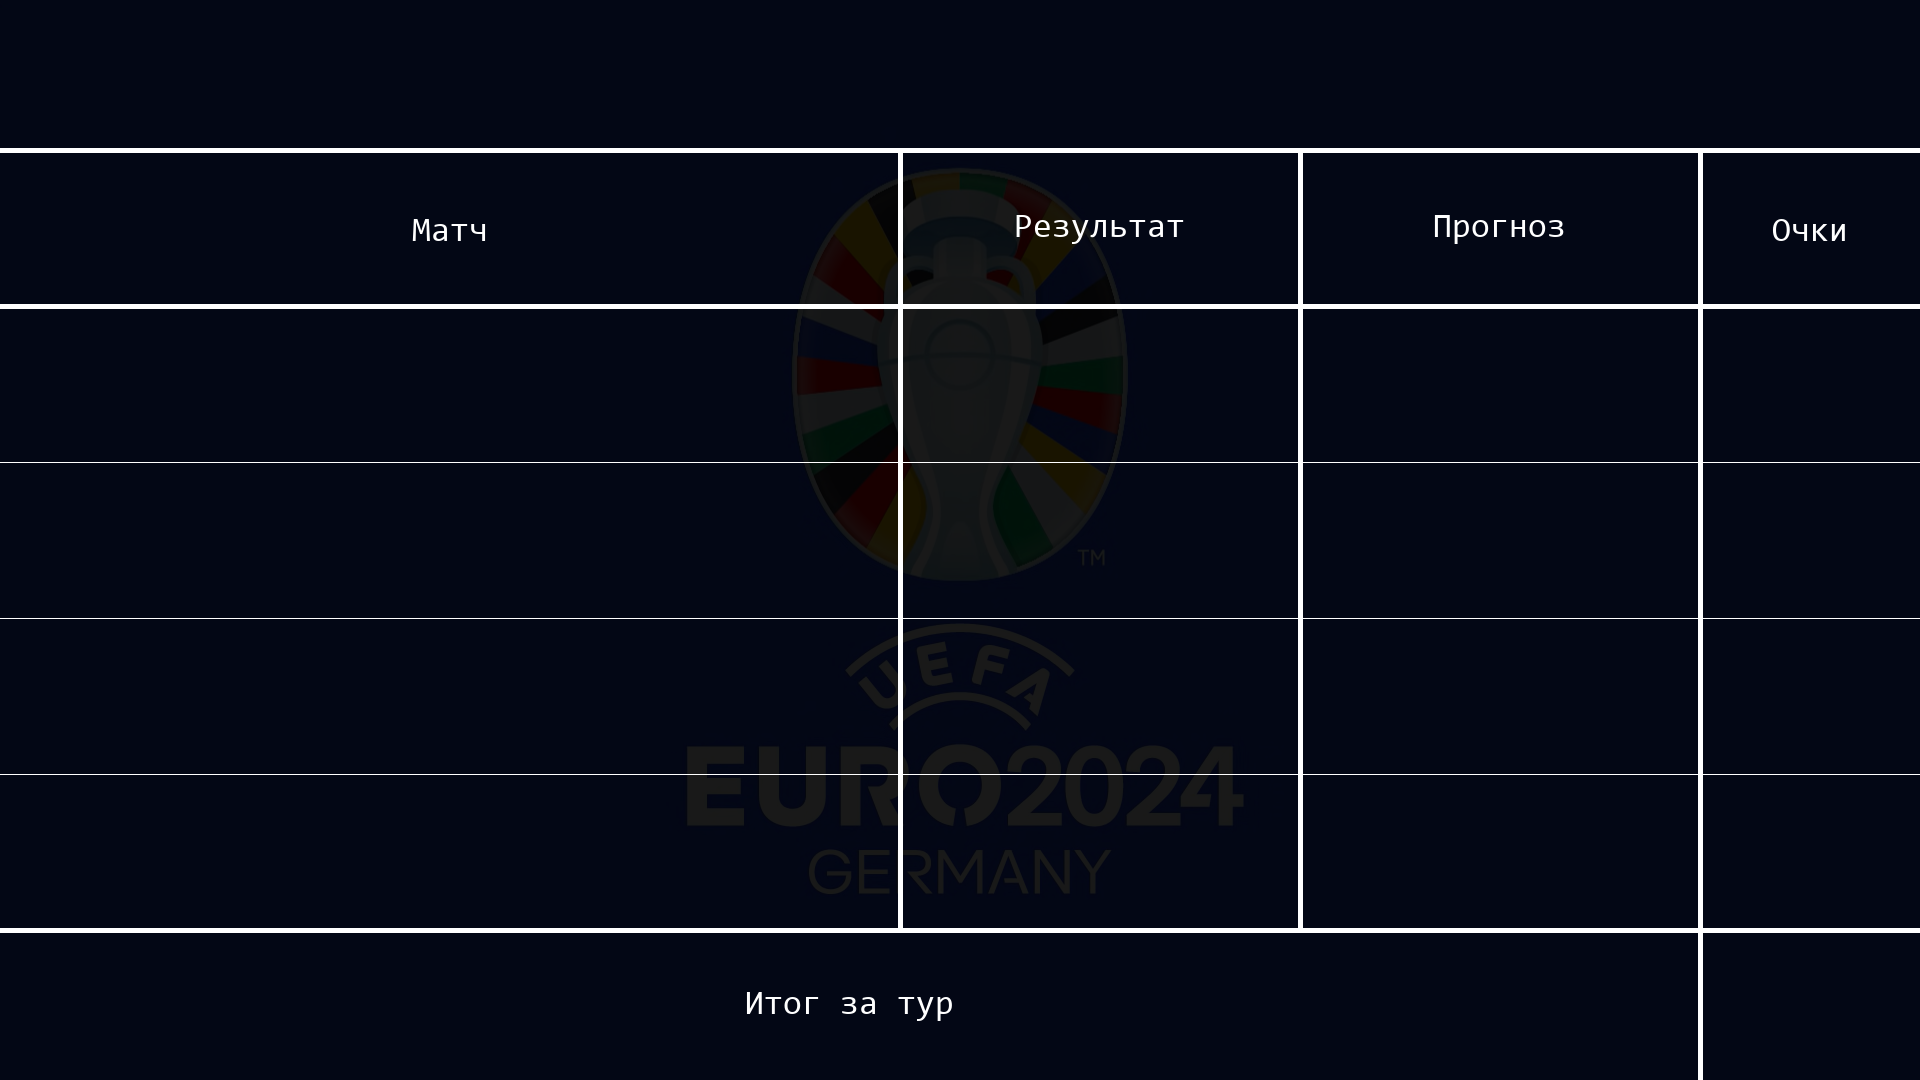
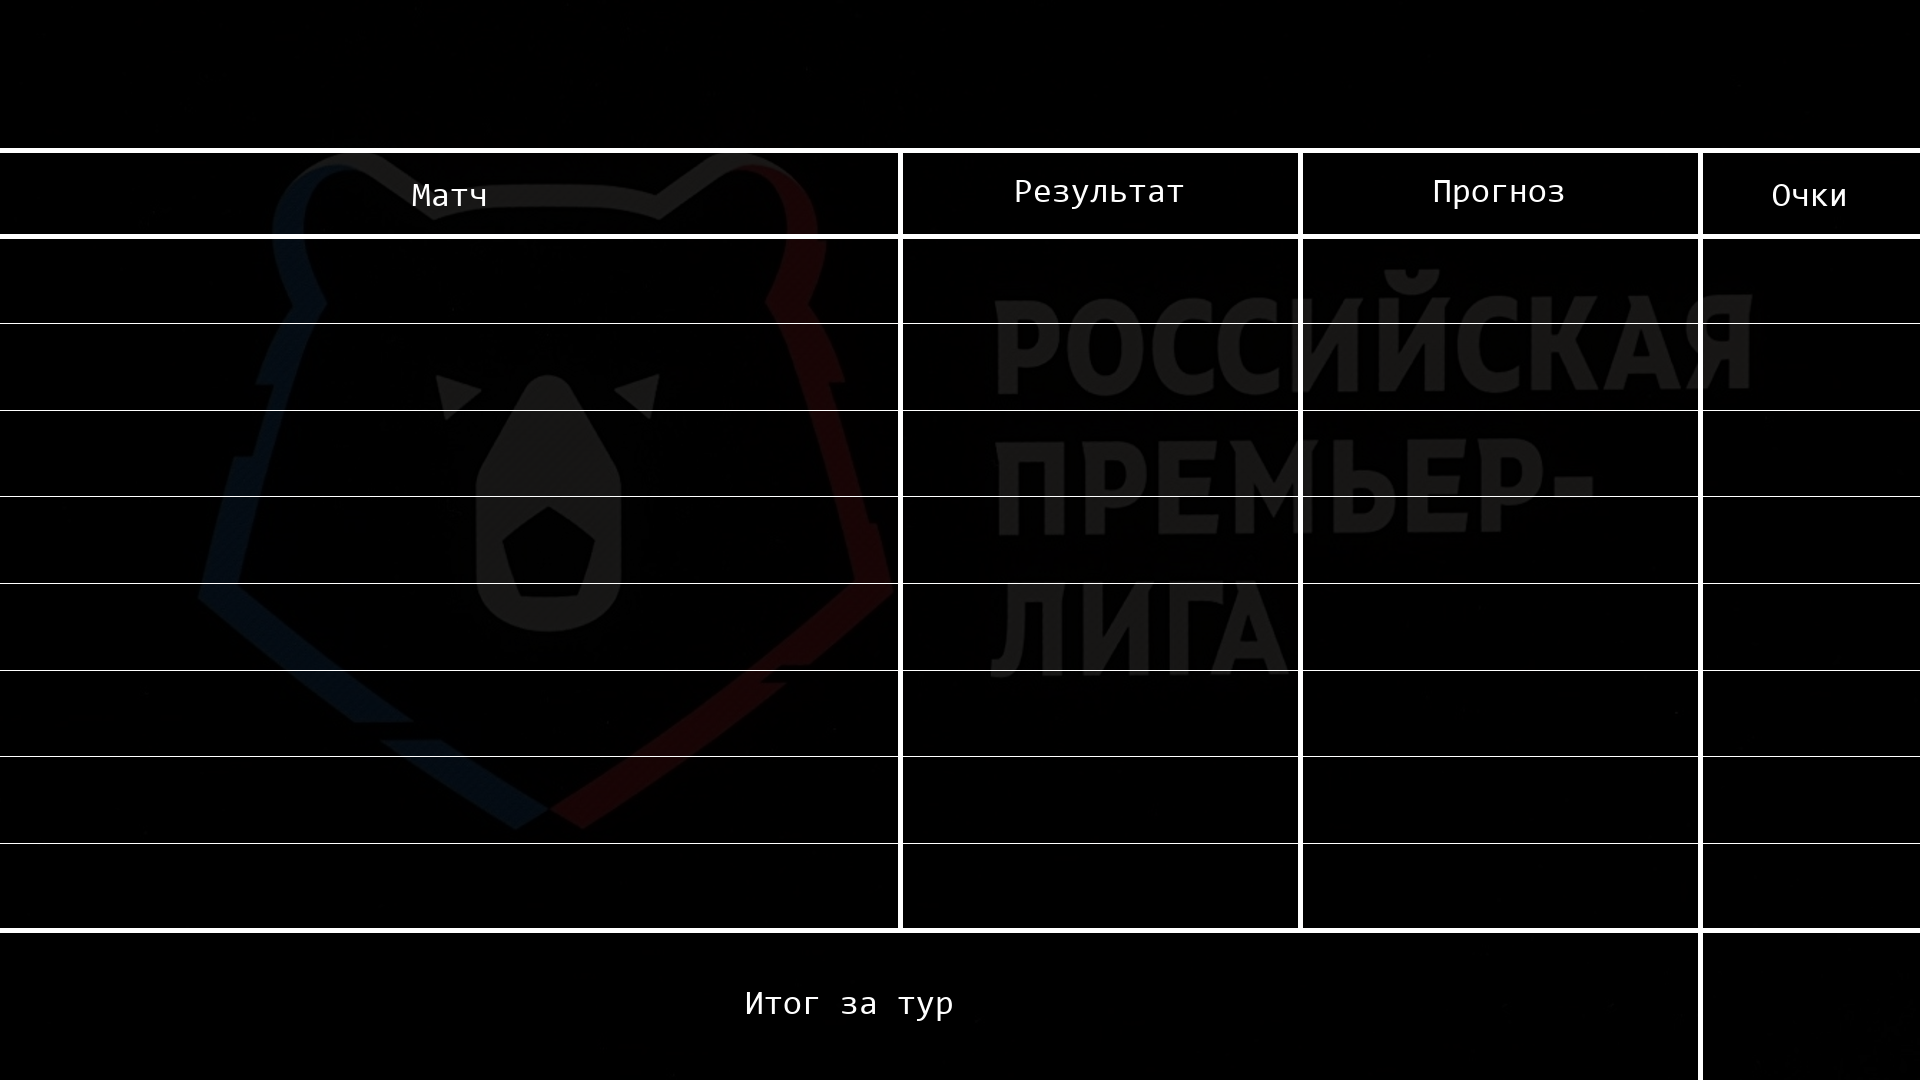
init rpl 24

Changed region(s): [[0.0, 0.1528, 1.0, 0.55], [0.3438, 0.5806, 0.6562, 0.825]]

diff --git a/config_data/relations.py b/config_data/relations.py
@@ -1,115 +1,8 @@
-# TOUR_DCT = {
-#     1: "tour1",
-#     2: "tour2",
-#     3: "tour3",
-#     4: "tour4",
-#     5: "tour5",
-#     6: "tour6",
-#     7: "tour7",
-#     8: "tour8",
-#     9: "tour9",
-#     10: "tour10",
-#     11: "tour11",
-#     12: "tour12"
-# }
+from config_data.config import NUMBER_OF_TOUR
 
-# DATES_DCT = {
-#     'tour1': 1,
-#     'tour2': 2,
-#     'tour3': 3,
-#     'tour4': 4,
-#     'tour5': 5,
-#     'tour6': 6,
-#     'tour7': 7,
-#     'tour8': 8,
-#     'tour9': 9,
-#     'tour10': 10,
-#     'tour11': 11,
-#     'tour12': 12
-# }
+TOUR_DCT = {i: f"tour{i}" for i in range(1, NUMBER_OF_TOUR + 1)}
 
-# HUMAN_DCT = {
-#     'тур 1 день 1': 1,
-#     'тур 1 день 2': 2,
-#     'тур 2 день 1': 3,
-#     'тур 2 день 2': 4,
-#     'тур 3 день 1': 5,
-#     'тур 3 день 2': 6,
-#     'тур 4 день 1': 7,
-#     'тур 4 день 2': 8,
-#     'тур 5 день 1': 9,
-#     'тур 5 день 2': 10,
-#     'тур 6 день 1': 11,
-#     'тур 6 день 2': 12,
-# }
+DATES_DCT = {f"tour{i}": i for i in range(1, NUMBER_OF_TOUR + 1)}
 
-# HUMAN_TOUR = {
-#     1: 'тур 1 день 1',
-#     2: 'тур 1 день 2',
-#     3: 'тур 2 день 1',
-#     4: 'тур 2 день 2',
-#     5: 'тур 3 день 1',
-#     6: 'тур 3 день 2',
-#     7: 'тур 4 день 1',
-#     8: 'тур 4 день 2',
-#     9: 'тур 5 день 1',
-#     10: 'тур 5 день 2',
-#     11: 'тур 6 день 1',
-#     12: 'тур 6 день 2'
-# }
+HUMAN_DCT = {f"{i} тур": i for i in range(1, NUMBER_OF_TOUR + 1)}
 
-# DATES_TOUR = {
-#     1: '2023-09-19 ',
-#     2: '2023-09-20 ',
-#     3: '2023-10-03 ',
-#     4: '2023-10-04 ',
-#     5: '2023-10-24 ',
-#     6: '2023-10-25 ',
-#     7: '2023-11-07 ',
-#     8: '2023-11-08 ',
-#     9: '2023-11-28 ',
-#     10: '2023-11-29 ',
-#     11: '2023-12-12 ',
-#     12: '2023-12-13 ',
-# }
-
-TOUR_DCT = {
-    1: "tour1",
-    2: "tour2",
-    3: "tour3",
-    4: "tour4",
-    5: "tour5",
-    6: "tour6",
-    7: "tour7",
-    8: "tour8",
-    9: "tour9",
-    10: "tour10"
-
-}
-
-DATES_DCT = {
-    "tour1": 1,
-    "tour2": 2,
-    "tour3": 3,
-    "tour4": 4,
-    "tour5": 5,
-    "tour6": 6,
-    "tour7": 7,
-    "tour8": 8,
-    "tour9": 9,
-    "tour10": 10
-
-}
-
-HUMAN_DCT = {
-    '14-26 июня': 0,
-    '29 июня': 1,
-    '30 июня': 2,
-    '1 июля': 3,
-    '2 июля': 4,
-    '5 июля': 5,
-    '6 июля': 6,
-    '9 июля': 7,
-    '10 июля': 8,
-    '14 июля': 9
-}

diff --git a/database/common.py b/database/common.py
@@ -13,13 +13,14 @@ CREATE TABLE IF NOT EXISTS forecast(tour INTEGER, date DATETIME, match TEXT, id_
 CREATE_TABLES_USERS = '''
 CREATE TABLE IF NOT EXISTS users(nickname TEXT, id_player BIGINT, status TEXT, sum INTEGER DEFAULT 0, tour1 INTEGER DEFAULT 0, tour2 INTEGER DEFAULT 0,
          tour3 INTEGER DEFAULT 0, tour4 INTEGER DEFAULT 0, tour5 INTEGER DEFAULT 0,  tour6 INTEGER DEFAULT 0, tour7 INTEGER DEFAULT 0, tour8 INTEGER DEFAULT 0,
-         tour9 INTEGER DEFAULT 0, tour10 INTEGER DEFAULT 0, tour11 INTEGER DEFAULT 0, tour12 INTEGER DEFAULT 0, tour13 INTEGER DEFAULT 0, champ TEXT, goleador TEXT);
+         tour9 INTEGER DEFAULT 0, tour10 INTEGER DEFAULT 0, tour11 INTEGER DEFAULT 0, tour12 INTEGER DEFAULT 0, tour13 INTEGER DEFAULT 0, tour14 INTEGER DEFAULT 0,
+           tour15 INTEGER DEFAULT 0, tour16 INTEGER DEFAULT 0, tour17 INTEGER DEFAULT 0, tour18 INTEGER DEFAULT 0);
 '''
 class MyDataBase:
     def __init__(self):
         try: 
             # self.db = sqlite3.connect('/root/rfpl23/cl_db.db', check_same_thread=False)
-            self.db = sqlite3.connect('euro_cup.db', check_same_thread=False)
+            self.db = sqlite3.connect('rfpl24.db', check_same_thread=False)
             self.cursor = self.db.cursor() 
             self.cursor.execute(CREATE_TABLES_FORECAST)
             self.cursor.execute(CREATE_TABLES_MATCHES)
@@ -68,6 +69,10 @@ class MyDataBase:
                 self.cursor.execute(
                     f'INSERT INTO forecast VALUES(?, ?, ?, ?, "–:–")', (*match, id_player))
             self.db.commit()
+        
+    def update_number_of_players(self):
+        config.NUMBER_OF_PLAYERS = self.cursor.execute(f'SELECT COUNT() FROM users').fetchall()[0]
+        print("config.NUMBER_OF_PLAYERS", config.NUMBER_OF_PLAYERS)
 
     def check_player_in_tournament(self, id_player: int) -> bool:
         # Проверить присмктствие игрока в таблице

diff --git a/matches_parser/parser.py b/matches_parser/parser.py
@@ -6,10 +6,7 @@ from config_data import config
 import pprint
 from itertools import groupby
 
-overwrite = {'* * Англия—Словакия': ["Англия—Словакия", "1:1"],
-             '* * Испания—Германия': ["Испания—Германия", "1:1"],
-             'Португалия—Франция': ["Португалия—Франция", "0:0"],
-             'Англия—Швейцария': ["Англия—Швейцария", "1:1"]}
+overwrite = {}
 
 
 def parser():
@@ -17,8 +14,6 @@ def parser():
     soup = BeautifulSoup(response.text, 'html.parser')
     quotes = soup.find('div', class_="cal_sort_tour").find_all("div")
     res = []
-    tour = 0
-    last = None
     for i, quote in enumerate(quotes):
         
         datetime = quote.find_all("li")[0].text
@@ -33,15 +28,5 @@ def parser():
 
         datetime = datetime_transform(datetime)
         status = get_match_status(datetime)
-        res.append((datetime, match, result, status))
-
-    res.sort()
-    ress = []
-    for elem in res:
-        if elem[0].split()[0] != last:
-            tour += 1
-            last = elem[0].split()[0]
-        ress.append((tour, *elem))
-    pprint.pprint(ress)
-
-    return ress
+        res.append((i // config.COUNT_MATCHES_IN_TOUR + 1, datetime, match, result, status))
+    return res

diff --git a/config_data/config.py b/config_data/config.py
@@ -14,21 +14,21 @@ load()
 BOT_TOKEN=os.getenv("MAIN_BOT_TOKEN")
 ADMIN_ID = os.getenv("ADMIN_ID")
 
-NUMBER_OF_TOUR = 10
-SUM_COLUMN = 19
-NUMBER_OF_PLAYERS = 30
-COUNT_MATCHES_IN_TOUR = 4
-TOUR1_COLUMN = 3
+NUMBER_OF_TOUR = 18
+SUM_COLUMN = 3
+NUMBER_OF_PLAYERS = 8
+COUNT_MATCHES_IN_TOUR = 8
+TOUR1_COLUMN = 4
 NICKNAME_COLUMN = 0 
-START_SHOW_TOUR_COLUMN = 3
-COUNT_TOUR_IN_TABLE = 10
+START_SHOW_TOUR_COLUMN = 4
+COUNT_TOUR_IN_TABLE = 18
 
 image_width = 1920
-image_height = 2000
+image_height = 1080
 
  
 POSSIBLE_STATUSSES = ["superadmin", "admin", "player", "owe"]
 
 start_info_msg = """Для участия необходимо перевести 1200 рублей Александрову Павлу на номер 89205450183 (сбер) с указанием никнейма в комментарии. После подтверждения перевода вы будете добавлены в турнир."""
 
-URL = 'https://www.livecup.run/football/euro-2024/calendar-playoff/'
+URL = 'https://www.livecup.run/football/russia/premier-league/calendar-tour/'

diff --git a/handlers/default_handlers/start.py b/handlers/default_handlers/start.py
@@ -13,8 +13,16 @@ def start(message: Message):
     if not config.REGISTRATION_IS_OPEN:
         bot.send_message(message.chat.id, "Вы не можете принять участие в турнире")
         return
-    bot.send_message(message.chat.id, "Введите имя, которое будет выводиться в таблицу")
-    bot.register_next_step_handler(message, set_nickname)
+    bot.send_message(message.chat.id, "Введите пароль")
+    bot.register_next_step_handler(message, get_password)
+
+def get_password(message: Message):
+    if message.text == "2007":
+        bot.send_message(message.chat.id, "Введите имя, которое будет выводиться в таблицу")
+        bot.register_next_step_handler(message, set_nickname)
+    else:
+        bot.send_message(message.chat.id, "Неверный пароль")
+        bot.register_next_step_handler(message, get_password)
 
 def set_nickname(message: Message):
     bot.send_message(message.chat.id, config.start_info_msg)

diff --git a/main.py b/main.py
@@ -4,11 +4,11 @@ from keyboards.reply import my_marcup
 import handlers
 
 
-if __name__ == '__main__':
-    while True:
-        try:
-            bot.polling(none_stop=True)
-        except Exception as exc:
-            bot.send_message(config.ADMIN_ID, exc, reply_markup=my_marcup.main_menu_marcup())
+# if __name__ == '__main__':
+#     while True:
+#         try:
+#             bot.polling(none_stop=True)
+#         except Exception as exc:
+#             bot.send_message(config.ADMIN_ID, exc, reply_markup=my_marcup.main_menu_marcup())
 
-# bot.polling(non_stop=True)
+bot.polling(non_stop=True)

diff --git a/keyboards/reply/my_marcup.py b/keyboards/reply/my_marcup.py
@@ -12,8 +12,7 @@ def main_menu_marcup() -> types.ReplyKeyboardMarkup:
                types.KeyboardButton("Посмотреть свой прогноз"),
                types.KeyboardButton("Обновить"),
                types.KeyboardButton("Сброс"),
-               types.KeyboardButton("Посмотреть прогноз всех участников"),
-               types.KeyboardButton("Чемпион+бомбардир"))
+               types.KeyboardButton("Посмотреть прогноз всех участников"))
     return marcup
 
 

diff --git a/template_creator.py b/template_creator.py
@@ -42,7 +42,7 @@ def create_template_points_tour():
 
 def create_template_result_tour():
     mk = Result_tour_markup()
-    img = Image.open("images/table_templates/dark_background2.png")
+    img = Image.open("images/table_templates/dark_background.png")
     imdraw = ImageDraw.Draw(img)
     image_height = 1080
     imdraw.line((0, mk.head_size, config.image_width, mk.head_size), fill="white", width=wide_line)    
